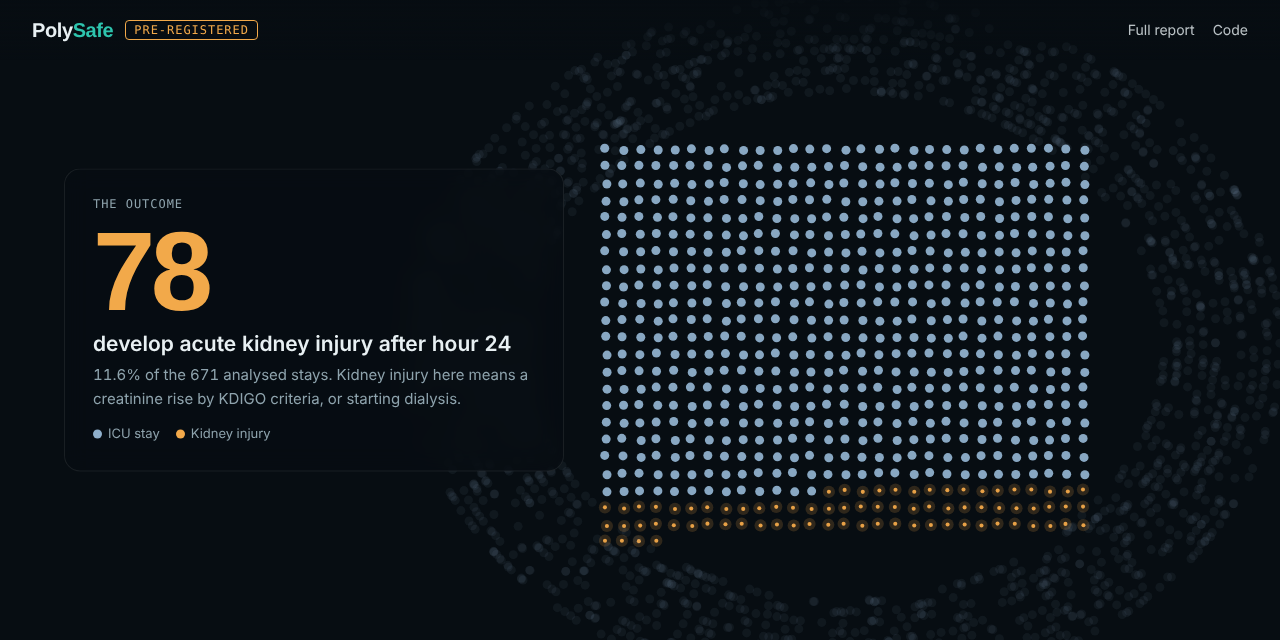
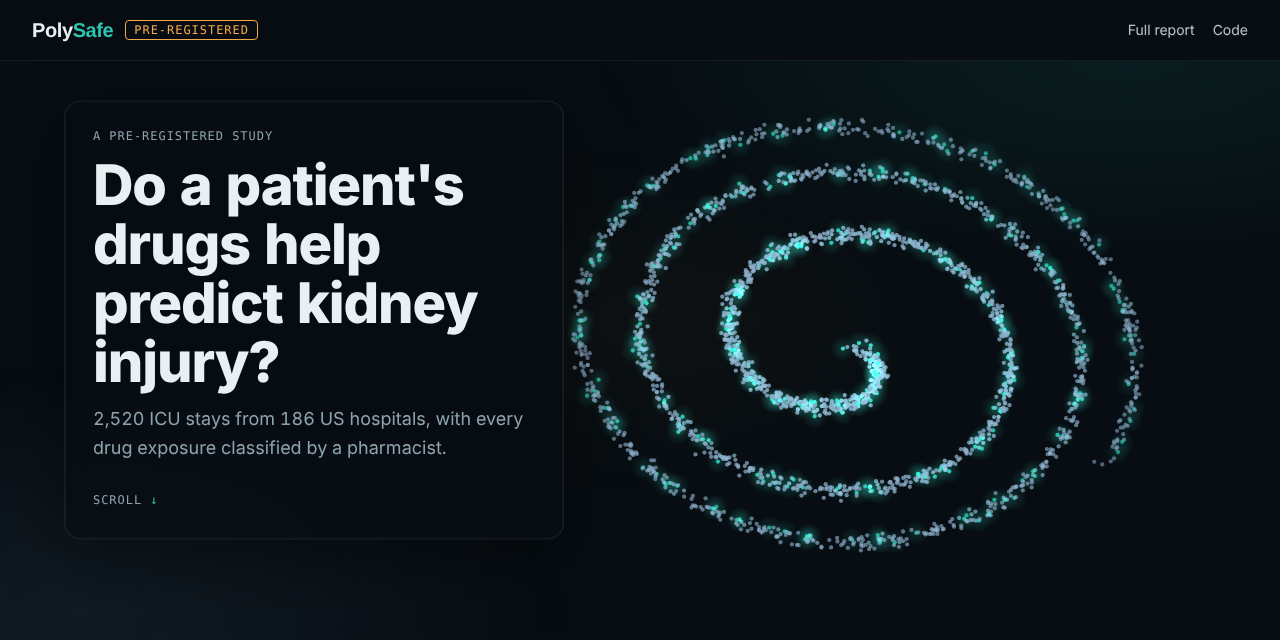
Story page: glow, parallax, progress bar, scroll reveals; dark README figures, new cover and tour
Claude-Session: https://claude.ai/code/session_01FviXoPLVozzHGXU3qbuhrf

diff --git a/docs/index.html b/docs/index.html
@@ -34,6 +34,11 @@ padding:14px clamp(16px,3vw,32px);background:#070d12ee;backdrop-filter:blur(8px)
 .bar nav{display:flex;gap:18px;font-size:14px}
 .bar nav a{color:var(--ink);text-decoration:none;opacity:.8}.bar nav a:hover{opacity:1}
 .tag{border:1px solid var(--aki);color:var(--aki);border-radius:4px;padding:2px 8px;margin-left:12px;vertical-align:3px}
+body::before{content:"";position:fixed;inset:0;z-index:-1;pointer-events:none;background:radial-gradient(60vw 50vh at 88% 8%,#2ec4ae18,transparent 70%),radial-gradient(55vw 55vh at 6% 96%,#3e5c7630,transparent 70%),radial-gradient(40vw 40vh at 50% 50%,#f2a94a08,transparent 70%)}
+#prog{position:fixed;top:0;left:0;height:2px;width:0;z-index:7;background:linear-gradient(90deg,#2ec4ae,#f2a94a);box-shadow:0 0 12px #2ec4ae99}
+.rv{opacity:0;transform:translateY(26px);transition:opacity .9s cubic-bezier(.2,.7,.2,1),transform .9s cubic-bezier(.2,.7,.2,1)}.rv.in{opacity:1;transform:none}
+#card{box-shadow:0 20px 70px #00000066,0 0 0 1px #ffffff0a inset}
+#card .big{text-shadow:0 0 38px currentColor}
 #spacer{position:relative;z-index:1;height:770vh}
 #card{position:fixed;z-index:3;left:clamp(16px,5vw,72px);top:50%;transform:translateY(-50%);width:min(500px,calc(100vw - 32px));
 padding:26px 28px;border:1px solid #ffffff14;border-radius:16px;background:#070d12b8;backdrop-filter:blur(12px);
@@ -108,6 +113,7 @@ ol.time:before{left:72px}ol.time li{grid-template-columns:62px 22px 1fr}.range d
 pre-specified logistic regression raised AUROC by 0.036 (95% CI 0.006 to 0.071); a flexible model gained nothing.
 See the <a href="report.html">full report</a>.</p></noscript>
 
+<div id="prog"></div>
 <div id="spacer" aria-hidden="true"></div>
 <div id="card" role="status" aria-live="polite"></div>
 
@@ -228,6 +234,10 @@ const stage = (function () {
   const hosp = new Uint8Array(N);
   for (let i = 0; i < N; i++) { ph[i] = rnd() * 6.283; gx[i] = (rnd() + rnd() + rnd() - 1.5); gy[i] = (rnd() + rnd() + rnd() - 1.5);
     hosp[i] = Math.floor(rnd() * 186); x[i] = rnd() * 1000; y[i] = rnd() * 800; al[i] = 0; }
+  const spr = c => { const k = document.createElement("canvas"); k.width = k.height = 64; const g = k.getContext("2d"), r = g.createRadialGradient(32, 32, 0, 32, 32, 32);
+    r.addColorStop(0, c + "ff"); r.addColorStop(.25, c + "88"); r.addColorStop(1, c + "00"); g.fillStyle = r; g.fillRect(0, 0, 64, 64); return k; };
+  const glowA = spr("#f2a94a"), glowT = spr("#2ec4ae"); let mx = .5, my = .5, sx = .5, sy = .5;
+  addEventListener("pointermove", e => { mx = e.clientX / innerWidth; my = e.clientY / innerHeight; }, { passive: true });
   let key = "", mode = 0, k = 0, rad = 2, time = 0, fade = 1;
   function size() { dpr = Math.min(2, devicePixelRatio || 1); W = innerWidth; H = innerHeight;
     cv.width = W * dpr; cv.height = H * dpr; ctx.setTransform(dpr, 0, 0, dpr, 0, 0); narrow = W < 820;
@@ -256,18 +266,20 @@ const stage = (function () {
     time = now / 1000;
     const kk = mode + ":" + k + ":" + W + ":" + H;
     if (kk !== key) { key = kk; layout(); }
-    ctx.clearRect(0, 0, W, H);
+    ctx.clearRect(0, 0, W, H); sx += (mx - sx) * .05; sy += (my - sy) * .05; const rot = mode === 0 && !reduce ? time * .035 : 0, cr = Math.cos(rot), sr = Math.sin(rot);
     const spd = reduce ? 1 : .09, evAmber = mode >= 2 || (mode === 1 && false);
     const pulse = mode === 3 ? 1 + .55 * Math.sin(time * 3) : 1;
     for (let i = 0; i < N; i++) {
       x[i] += (tx[i] - x[i]) * spd; y[i] += (ty[i] - y[i]) * spd; al[i] += (ta[i] - al[i]) * spd;
-      const wob = reduce ? 0 : 1.2, px = x[i] + Math.sin(time * .8 + ph[i]) * wob, py = y[i] + Math.cos(time * .7 + ph[i]) * wob;
+      const wob = reduce ? 0 : 1.2, d = reduce ? 0 : 3 + (i % 5) * 3.2; let px = x[i] + Math.sin(time * .8 + ph[i]) * wob + (sx - .5) * d * 2, py = y[i] + Math.cos(time * .7 + ph[i]) * wob + (sy - .5) * d * 2;
+      if (rot) { const dx = px - cx, dy = py - cy; px = cx + dx * cr - dy * sr; py = cy + dx * sr + dy * cr; }
       const ev = isEv[i] && evAmber && al[i] > .3;
       ctx.globalAlpha = al[i] * fade;
       ctx.fillStyle = ev ? "#f2a94a" : (mode === 0 ? (i % 9 === 0 ? "#2ec4ae" : "#8fb0cc") : "#8fb0cc");
       const rr = rad * (ev ? pulse : 1);
       ctx.beginPath(); ctx.arc(px, py, rr, 0, 6.283); ctx.fill();
-      if (ev && mode === 3) { ctx.globalAlpha = .18 * fade * al[i]; ctx.beginPath(); ctx.arc(px, py, rr * 3, 0, 6.283); ctx.fill(); }
+      if (ev || (mode === 0 && i % 9 === 0)) { ctx.globalCompositeOperation = "lighter"; ctx.globalAlpha = (ev ? .32 : .38) * al[i] * fade; const g = rr * (ev ? 7 : 6); ctx.drawImage(ev ? glowA : glowT, px - g, py - g, 2 * g, 2 * g); ctx.globalCompositeOperation = "source-over"; }
+      if (false) { ctx.globalAlpha = .18 * fade * al[i]; ctx.beginPath(); ctx.arc(px, py, rr * 3, 0, 6.283); ctx.fill(); }
     }
     ctx.globalAlpha = 1;
     requestAnimationFrame(frame);
@@ -306,7 +318,9 @@ const stage = (function () {
       <div class="why">95% interval ${fmt(m0.lo)} to ${fmt(m0.hi)}. A more flexible model, LightGBM, gained ${fmt(m1.d)}: nothing.</div>
       <div class="range">${D.models.map(row).join("")}</div><span class="mono hint">Keep reading</span>`;
   }
+  const prog = $("prog");
   function onScroll() {
+    prog.style.width = (scrollY / Math.max(1, document.documentElement.scrollHeight - innerHeight) * 100) + "%";
     const p = scrollY / innerHeight; let act = 0;
     for (let i = 0; i < B.length - 1; i++) if (p >= B[i]) act = i;
     if (p >= B[B.length - 1]) act = 5;
@@ -319,6 +333,8 @@ const stage = (function () {
     const key = a + ":" + kk + (a === 4 ? ":" + Math.round(t * 60) : "");
     if (key !== shown) { shown = key; card.innerHTML = html(a, a === 4 ? (act === 5 ? 1 : t) : t, kk); }
   }
+  if (!reduce && "IntersectionObserver" in window) { const io = new IntersectionObserver(es => es.forEach(e => { if (e.isIntersecting) { e.target.classList.add("in"); io.unobserve(e.target); } }), { threshold: .12, rootMargin: "0px 0px -6% 0px" });
+    document.querySelectorAll("#after section h2, #after section .mono, #after section p, #after section .tabs, #after section svg, #after section .cols > *").forEach(n => { n.classList.add("rv"); io.observe(n); }); }
   addEventListener("scroll", onScroll, { passive: true }); addEventListener("resize", onScroll); onScroll();
 })();
 

diff --git a/src/polysafe/site_template.html b/src/polysafe/site_template.html
@@ -34,6 +34,11 @@ padding:14px clamp(16px,3vw,32px);background:#070d12ee;backdrop-filter:blur(8px)
 .bar nav{display:flex;gap:18px;font-size:14px}
 .bar nav a{color:var(--ink);text-decoration:none;opacity:.8}.bar nav a:hover{opacity:1}
 .tag{border:1px solid var(--aki);color:var(--aki);border-radius:4px;padding:2px 8px;margin-left:12px;vertical-align:3px}
+body::before{content:"";position:fixed;inset:0;z-index:-1;pointer-events:none;background:radial-gradient(60vw 50vh at 88% 8%,#2ec4ae18,transparent 70%),radial-gradient(55vw 55vh at 6% 96%,#3e5c7630,transparent 70%),radial-gradient(40vw 40vh at 50% 50%,#f2a94a08,transparent 70%)}
+#prog{position:fixed;top:0;left:0;height:2px;width:0;z-index:7;background:linear-gradient(90deg,#2ec4ae,#f2a94a);box-shadow:0 0 12px #2ec4ae99}
+.rv{opacity:0;transform:translateY(26px);transition:opacity .9s cubic-bezier(.2,.7,.2,1),transform .9s cubic-bezier(.2,.7,.2,1)}.rv.in{opacity:1;transform:none}
+#card{box-shadow:0 20px 70px #00000066,0 0 0 1px #ffffff0a inset}
+#card .big{text-shadow:0 0 38px currentColor}
 #spacer{position:relative;z-index:1;height:770vh}
 #card{position:fixed;z-index:3;left:clamp(16px,5vw,72px);top:50%;transform:translateY(-50%);width:min(500px,calc(100vw - 32px));
 padding:26px 28px;border:1px solid #ffffff14;border-radius:16px;background:#070d12b8;backdrop-filter:blur(12px);
@@ -108,6 +113,7 @@ ol.time:before{left:72px}ol.time li{grid-template-columns:62px 22px 1fr}.range d
 pre-specified logistic regression raised AUROC by 0.036 (95% CI 0.006 to 0.071); a flexible model gained nothing.
 See the <a href="report.html">full report</a>.</p></noscript>
 
+<div id="prog"></div>
 <div id="spacer" aria-hidden="true"></div>
 <div id="card" role="status" aria-live="polite"></div>
 
@@ -228,6 +234,10 @@ const stage = (function () {
   const hosp = new Uint8Array(N);
   for (let i = 0; i < N; i++) { ph[i] = rnd() * 6.283; gx[i] = (rnd() + rnd() + rnd() - 1.5); gy[i] = (rnd() + rnd() + rnd() - 1.5);
     hosp[i] = Math.floor(rnd() * 186); x[i] = rnd() * 1000; y[i] = rnd() * 800; al[i] = 0; }
+  const spr = c => { const k = document.createElement("canvas"); k.width = k.height = 64; const g = k.getContext("2d"), r = g.createRadialGradient(32, 32, 0, 32, 32, 32);
+    r.addColorStop(0, c + "ff"); r.addColorStop(.25, c + "88"); r.addColorStop(1, c + "00"); g.fillStyle = r; g.fillRect(0, 0, 64, 64); return k; };
+  const glowA = spr("#f2a94a"), glowT = spr("#2ec4ae"); let mx = .5, my = .5, sx = .5, sy = .5;
+  addEventListener("pointermove", e => { mx = e.clientX / innerWidth; my = e.clientY / innerHeight; }, { passive: true });
   let key = "", mode = 0, k = 0, rad = 2, time = 0, fade = 1;
   function size() { dpr = Math.min(2, devicePixelRatio || 1); W = innerWidth; H = innerHeight;
     cv.width = W * dpr; cv.height = H * dpr; ctx.setTransform(dpr, 0, 0, dpr, 0, 0); narrow = W < 820;
@@ -256,18 +266,20 @@ const stage = (function () {
     time = now / 1000;
     const kk = mode + ":" + k + ":" + W + ":" + H;
     if (kk !== key) { key = kk; layout(); }
-    ctx.clearRect(0, 0, W, H);
+    ctx.clearRect(0, 0, W, H); sx += (mx - sx) * .05; sy += (my - sy) * .05; const rot = mode === 0 && !reduce ? time * .035 : 0, cr = Math.cos(rot), sr = Math.sin(rot);
     const spd = reduce ? 1 : .09, evAmber = mode >= 2 || (mode === 1 && false);
     const pulse = mode === 3 ? 1 + .55 * Math.sin(time * 3) : 1;
     for (let i = 0; i < N; i++) {
       x[i] += (tx[i] - x[i]) * spd; y[i] += (ty[i] - y[i]) * spd; al[i] += (ta[i] - al[i]) * spd;
-      const wob = reduce ? 0 : 1.2, px = x[i] + Math.sin(time * .8 + ph[i]) * wob, py = y[i] + Math.cos(time * .7 + ph[i]) * wob;
+      const wob = reduce ? 0 : 1.2, d = reduce ? 0 : 3 + (i % 5) * 3.2; let px = x[i] + Math.sin(time * .8 + ph[i]) * wob + (sx - .5) * d * 2, py = y[i] + Math.cos(time * .7 + ph[i]) * wob + (sy - .5) * d * 2;
+      if (rot) { const dx = px - cx, dy = py - cy; px = cx + dx * cr - dy * sr; py = cy + dx * sr + dy * cr; }
       const ev = isEv[i] && evAmber && al[i] > .3;
       ctx.globalAlpha = al[i] * fade;
       ctx.fillStyle = ev ? "#f2a94a" : (mode === 0 ? (i % 9 === 0 ? "#2ec4ae" : "#8fb0cc") : "#8fb0cc");
       const rr = rad * (ev ? pulse : 1);
       ctx.beginPath(); ctx.arc(px, py, rr, 0, 6.283); ctx.fill();
-      if (ev && mode === 3) { ctx.globalAlpha = .18 * fade * al[i]; ctx.beginPath(); ctx.arc(px, py, rr * 3, 0, 6.283); ctx.fill(); }
+      if (ev || (mode === 0 && i % 9 === 0)) { ctx.globalCompositeOperation = "lighter"; ctx.globalAlpha = (ev ? .32 : .38) * al[i] * fade; const g = rr * (ev ? 7 : 6); ctx.drawImage(ev ? glowA : glowT, px - g, py - g, 2 * g, 2 * g); ctx.globalCompositeOperation = "source-over"; }
+      if (false) { ctx.globalAlpha = .18 * fade * al[i]; ctx.beginPath(); ctx.arc(px, py, rr * 3, 0, 6.283); ctx.fill(); }
     }
     ctx.globalAlpha = 1;
     requestAnimationFrame(frame);
@@ -306,7 +318,9 @@ const stage = (function () {
       <div class="why">95% interval ${fmt(m0.lo)} to ${fmt(m0.hi)}. A more flexible model, LightGBM, gained ${fmt(m1.d)}: nothing.</div>
       <div class="range">${D.models.map(row).join("")}</div><span class="mono hint">Keep reading</span>`;
   }
+  const prog = $("prog");
   function onScroll() {
+    prog.style.width = (scrollY / Math.max(1, document.documentElement.scrollHeight - innerHeight) * 100) + "%";
     const p = scrollY / innerHeight; let act = 0;
     for (let i = 0; i < B.length - 1; i++) if (p >= B[i]) act = i;
     if (p >= B[B.length - 1]) act = 5;
@@ -319,6 +333,8 @@ const stage = (function () {
     const key = a + ":" + kk + (a === 4 ? ":" + Math.round(t * 60) : "");
     if (key !== shown) { shown = key; card.innerHTML = html(a, a === 4 ? (act === 5 ? 1 : t) : t, kk); }
   }
+  if (!reduce && "IntersectionObserver" in window) { const io = new IntersectionObserver(es => es.forEach(e => { if (e.isIntersecting) { e.target.classList.add("in"); io.unobserve(e.target); } }), { threshold: .12, rootMargin: "0px 0px -6% 0px" });
+    document.querySelectorAll("#after section h2, #after section .mono, #after section p, #after section .tabs, #after section svg, #after section .cols > *").forEach(n => { n.classList.add("rv"); io.observe(n); }); }
   addEventListener("scroll", onScroll, { passive: true }); addEventListener("resize", onScroll); onScroll();
 })();
 

diff --git a/README.md b/README.md
@@ -27,7 +27,7 @@ Database (Demo v2.0.1, 186 US hospitals), with a pre-registered primary analysis
 post-result sensitivity specifications, and drug exposure classified from
 pharmacist-adjudicated HICL mappings.
 
-![Cohort flow](results/figures/cohort_flow.svg)
+![Cohort flow](docs/fig/cohort_flow.svg)
 
 ## The answer
 
@@ -53,9 +53,9 @@ improve: 0.216 (0.145-0.302) vs 0.213 (0.149-0.288) for the primary model. Sourc
 [`results/models.md`](results/models.md); the fitted model, with every coefficient, in
 [`results/final_model.md`](results/final_model.md).
 
-![Paired dAUROC](results/figures/dauroc.svg)
+![Paired dAUROC](docs/fig/dauroc.svg)
 
-![Calibration](results/figures/calibration.svg)
+![Calibration](docs/fig/calibration.svg)
 
 ## What moves the answer
 
